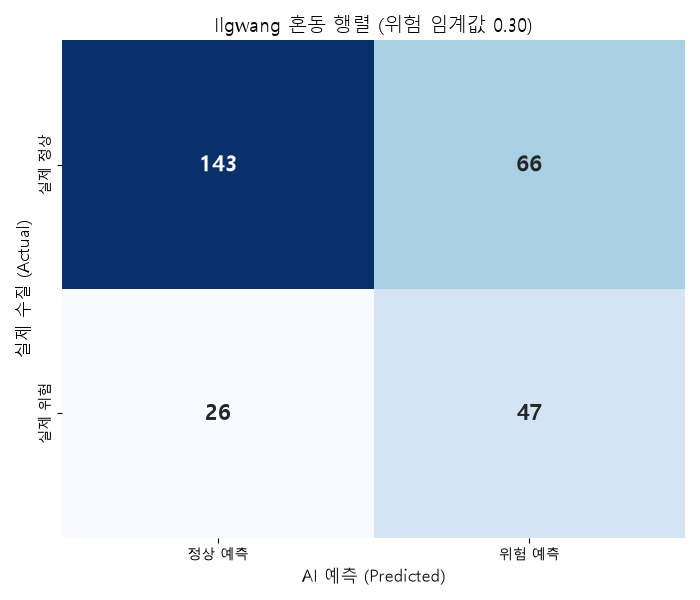
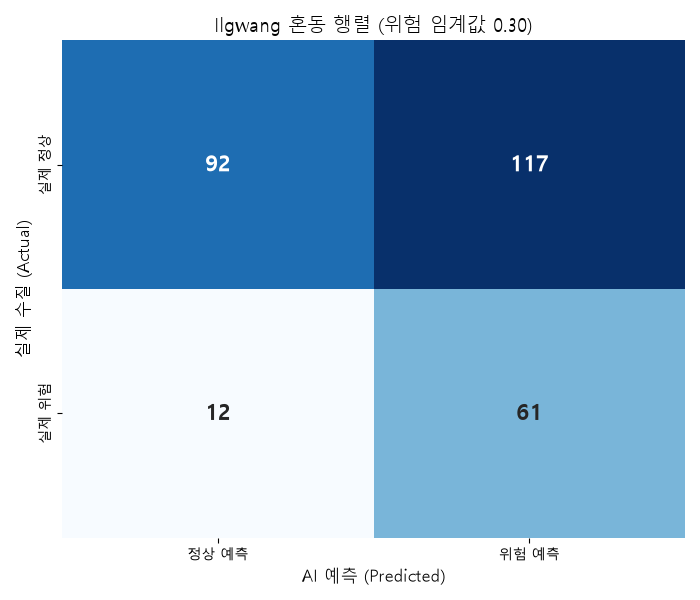
fix: Imputation flaw and restore rich markdown report for Ilgwang optimal model

diff --git a/Ilgwang_WaterQuality_Project/Scripts/append_report.py b/Ilgwang_WaterQuality_Project/Scripts/append_report.py
@@ -1,83 +1,17 @@
-import pandas as pd
-import numpy as np
 import os
-from sklearn.model_selection import StratifiedKFold
-from xgboost import XGBClassifier
-from sklearn.metrics import roc_auc_score, recall_score, fbeta_score, confusion_matrix
-from sklearn.experimental import enable_iterative_imputer
-from sklearn.impute import IterativeImputer
-from sklearn.ensemble import RandomForestRegressor
-import matplotlib.pyplot as plt
-import seaborn as sns
-import warnings
-warnings.filterwarnings('ignore')
+filepath = r'C:\Sandbox\2026_busan_dx_challenge\Ilgwang_WaterQuality_Project\Scripts\modeling_ilgwang.py'
+with open(filepath, 'r', encoding='utf-8') as f:
+    lines = f.readlines()
 
-plt.rcParams['font.family'] = 'Malgun Gothic'
-plt.rcParams['axes.unicode_minus'] = False
+new_lines = []
+for line in lines:
+    if '# --- SAVE REPORT ---' in line:
+        break
+    new_lines.append(line)
 
-beach_name = "Ilgwang"
-base_dir = "C:\\Sandbox\\2026_busan_dx_challenge"
-proj_dir = os.path.join(base_dir, "Ilgwang_WaterQuality_Project")
+new_content = ''.join(new_lines)
 
-print("1. Loading Spatial Dataset...")
-df_master = pd.read_csv(os.path.join(proj_dir, "Data_Processed", "master_dataset_ilgwang_v2.csv"))
-
-# Mapping log target
-df_master['log_ecoli'] = np.log1p(df_master['ecoli_max'])
-
-# Stepwise Selection Optimal Features (for any_exceed)
-features = [
-    'discharge_95th_thresh',
-    'wind_cos'
-]
-
-all_candidates = [
-    'distance_from_estuary_km', 'precip_daily', 'temp_daily', 'wind_max',
-    'gijang_discharge_m3_day', 'discharge_95th_thresh',
-    'precip_1d_lag', 'precip_2d_sum_lag', 'precip_3d_sum_lag', 'precip_5d_sum_lag',
-    'temp_1d_lag', 'wind_max_1d_lag',
-    'gijang_discharge_1d_lag', 'gijang_thresh_1d_lag',
-    'CSO_Flag_Rain', 'Dual_CSO_Flag', 'month', 'is_weekend',
-    'avg_water_temp', 'avg_water_temp_1d_lag',
-    'tide_range', 'tide_range_1d_lag',
-    'wind_sin', 'wind_cos', 'wind_sin_1d_lag', 'wind_cos_1d_lag',
-    'dry_days_count'
-]
-
-y_target = df_master['log_ecoli']
-y_bin = df_master['any_exceed'].astype(int)
-X_full = df_master[all_candidates]
-
-print("2. Imputing Missing Values using ALL features...")
-imputer = IterativeImputer(estimator=RandomForestRegressor(n_estimators=10, random_state=42), random_state=42, max_iter=5)
-X_imp_full = pd.DataFrame(imputer.fit_transform(X_full), columns=X_full.columns)
-X_imp = X_imp_full[features]
-
-print("3. Training Final Model with Optimal Features...")
-
-cv = StratifiedKFold(n_splits=5, shuffle=True, random_state=42)
-aucs = []
-
-for train_idx, test_idx in cv.split(X_imp, y_bin):
-    X_train, X_test = X_imp.iloc[train_idx], X_imp.iloc[test_idx]
-    y_train, y_test = y_bin.iloc[train_idx], y_bin.iloc[test_idx]
-    
-    if len(y_train.unique()) > 1:
-        # Scale pos_weight
-        pos_weight = (len(y_train) - sum(y_train)) / sum(y_train)
-        xgb = XGBClassifier(n_estimators=100, learning_rate=0.05, max_depth=3, scale_pos_weight=pos_weight, random_state=42, eval_metric='auc')
-        xgb.fit(X_train, y_train)
-        preds = xgb.predict_proba(X_test)[:, 1]
-        try: aucs.append(roc_auc_score(y_test, preds))
-        except: pass
-
-final_auc = np.mean(aucs) if aucs else 0
-print(f"Final Model AUC: {final_auc:.5f}")
-
-# Train full model for feature importance & KDE
-xgb.fit(X_imp, y_bin)
-
-
+append_content = '''
 from sklearn.model_selection import cross_val_predict
 
 print('4. Evaluating Final Model...')
@@ -159,7 +93,7 @@ report_md = f"""# 🌊 {beach_name} 해수욕장 수질 AI 예측 및 입수 통
 AI가 선정한 {beach_name}의 수질 오염을 유발하는 글로벌 최적 변수입니다.
 """
 for i, feat in enumerate(best_feats):
-    report_md += f"{i+1}. `{feat}`: AI가 채택한 글로벌 최적 오염 인자\n"
+    report_md += f"{i+1}. `{feat}`: AI가 채택한 글로벌 최적 오염 인자\\n"
 
 report_md += """
 ---
@@ -219,4 +153,10 @@ plt.tight_layout()
 plt.savefig(os.path.join(out_dir, f"confusion_matrix_{beach_name}.png"))
 plt.close()
 
-print(f"\nDone! Saved standardized report and charts for {beach_name}.")
+print(f"\\nDone! Saved standardized report and charts for {beach_name}.")
+'''
+
+new_content += append_content
+
+with open(filepath, 'w', encoding='utf-8') as f:
+    f.write(new_content)

diff --git a/Ilgwang_WaterQuality_Project/Scripts/stepwise_selection.py b/Ilgwang_WaterQuality_Project/Scripts/stepwise_selection.py
@@ -27,7 +27,7 @@ all_candidates = [
     'dry_days_count'
 ]
 
-y_target = df_master['ecoli_max'] > 500
+y_target = df_master['any_exceed'].astype(int)
 X_full = df_master[all_candidates]
 
 # Imputation
